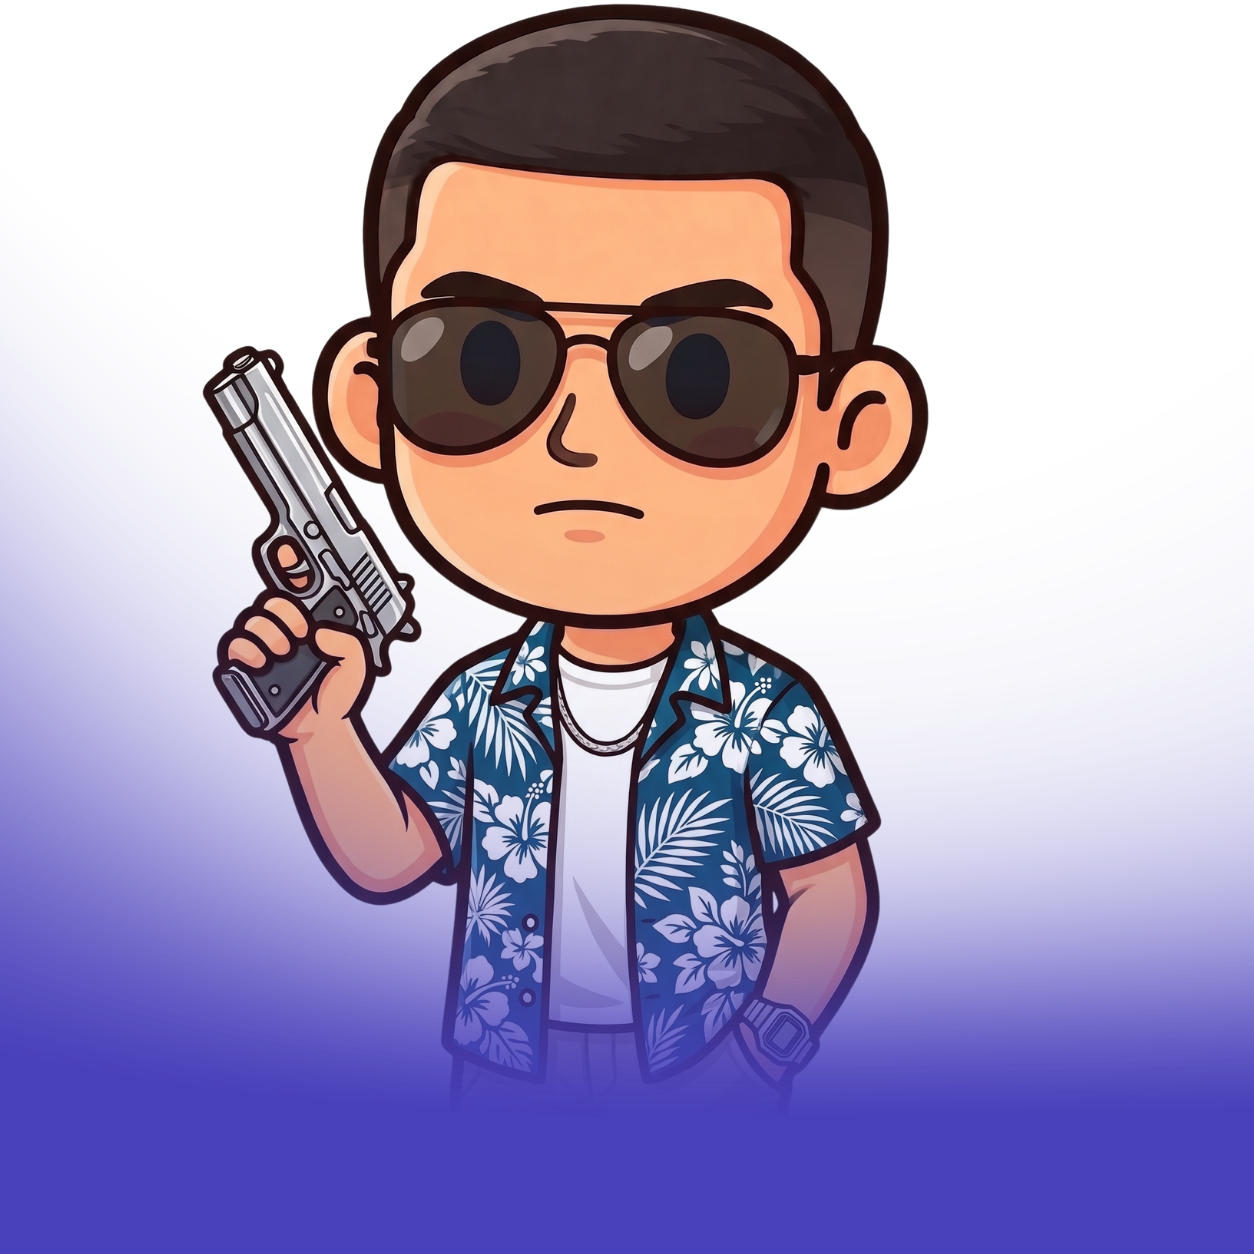
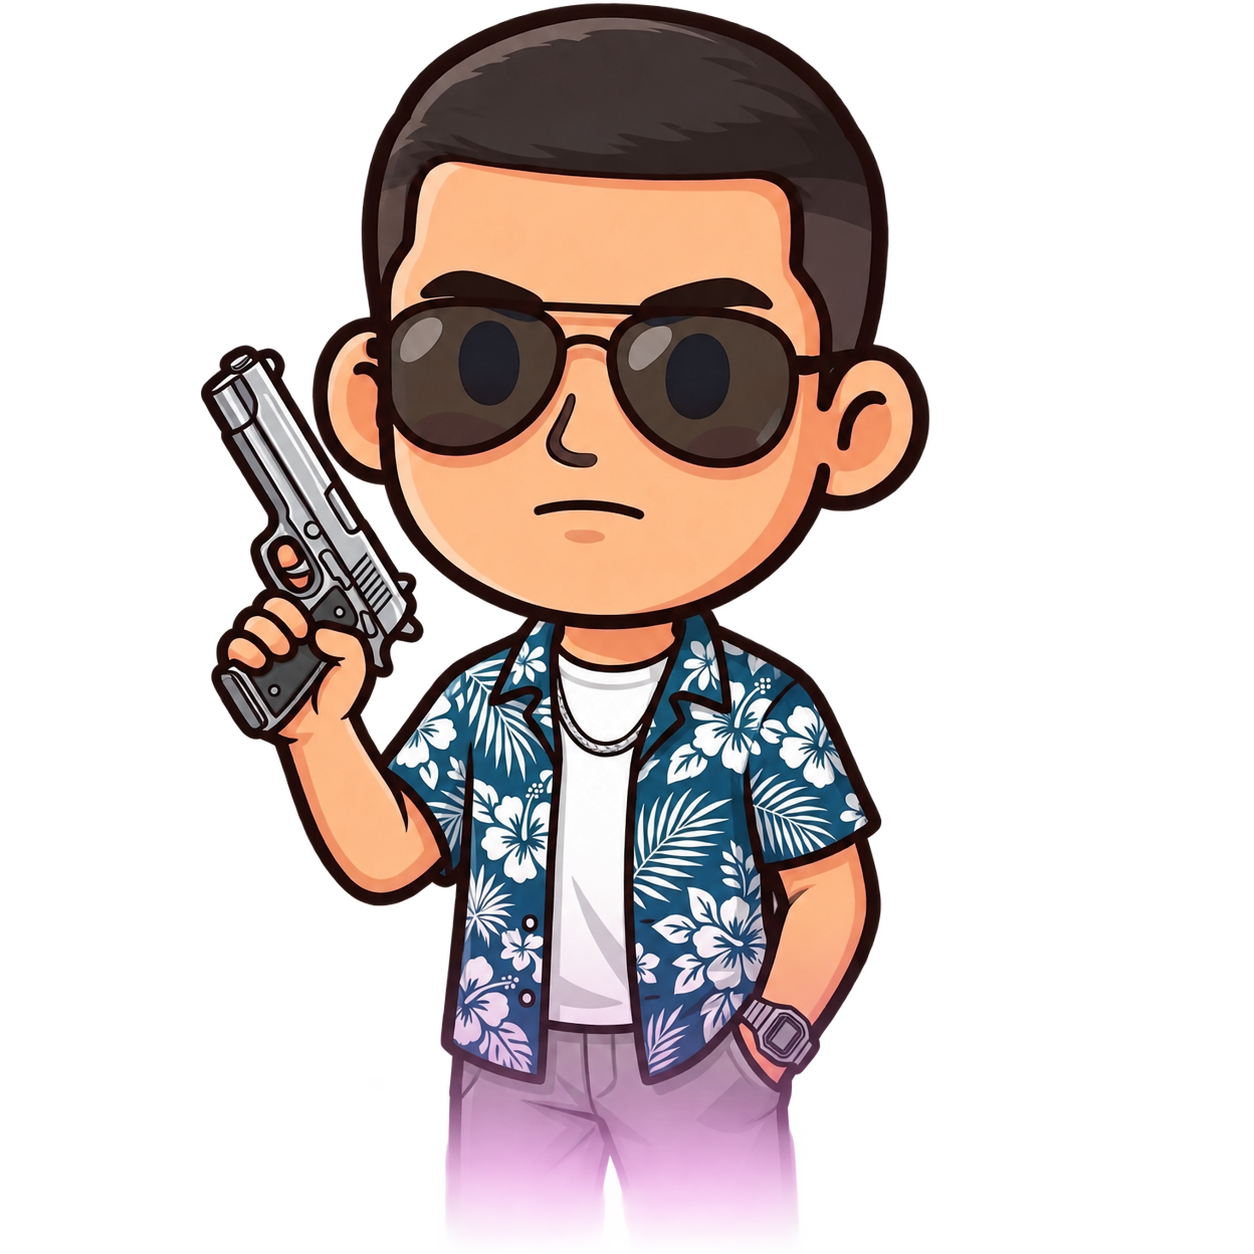
update script holidays

diff --git a/src/js/holidays.js b/src/js/holidays.js
@@ -46,13 +46,13 @@ export function initHolidays() {
             ],
 
             cssVars: {
-                "--bg-main": "linear-gradient(135deg, rgba(48, 63, 190, 1) 0%, rgba(105, 66, 180, 1) 15%, rgba(200, 142, 198, 1) 25%, rgba(206, 76, 169, 1) 35%)",
+                "--bg-main": "linear-gradient(90deg,rgba(76, 75, 251, 1) 0%, rgba(250, 61, 185, 1) 70%, rgba(252, 164, 65, 1) 100%)",
                 "--bg-main1": "#3240c1", 
                 "--accent-color": "#d04ba7",
                 "--bg-dropdown": "#ab56b4",
                 "--border-light": "rgba(255, 255, 255, .2)"
             },
-            corBotao: "linear-gradient(90deg,rgba(50, 64, 193, 1) 0%, rgba(104, 66, 180, 1) 50%);",
+            corBotao: "linear-gradient(90deg,rgba(50, 64, 193, 1) 0%, rgba(104, 66, 180, 1) 50%)",
             fontFamily: "'Pricedown', 'Montserrat', sans-serif" 
         },
 
@@ -315,11 +315,8 @@ export function initHolidays() {
         
         const style = document.createElement("style");
         
-        // A MÁGICA: background-attachment: fixed faz o gradiente se esticar
-        // baseado no tamanho da janela do usuário, e não no tamanho da seção.
-        // Isso devolve aquele visual suave de "uma grande cor de fundo", 
-        // mas as seções continuam sólidas com suas bordas e sombras!
         style.innerHTML = `
+            /* 1. CORRIGIDO: Volta a usar a variável original do GTA 6, com fundo fixo */
             .hero-section, 
             .about-section, 
             .services-section, 
@@ -327,16 +324,28 @@ export function initHolidays() {
             .formations-section,
             .contact-section,
             .cosmus-section {
-                background: linear-gradient(130deg,rgba(73, 64, 187, 1) 60%, rgba(140, 94, 186, 1) 85%) !important;
+                background: var(--bg-main) !important;
                 background-attachment: fixed !important; 
             }
             
-            /* Destaque para os cards não "sumirem" no fundo colorido */
+            /* 2. Destaque de Fundo para os cards não "sumirem" (Aplica nas Formações também!) */
             .project-card,
             .formation-card,
             .service-item,
             .contact-form-wrapper {
-                
+                background: rgba(0, 0, 0, 0.45) !important; 
+                backdrop-filter: blur(15px);
+                border: 1px solid rgba(255, 255, 255, 0.1) !important;
+                color: #ffffff; /* Garante que os textos das Formações fiquem visíveis */
+            }
+
+            /* 3. Textos da seção Serviços brancos para melhor leitura */
+            .services-section .service-name, 
+            .services-section .service-desc {
+                color: #ffffff !important;
+            }
+            .services-section .service-number-mask {
+                color: rgba(255, 255, 255, 0.3) !important; 
             }
 
             /* Footer com a cor secundária do tema */
@@ -419,15 +428,16 @@ export function initHolidays() {
 
     // 3.5. Decorações (Árvores) - COM SOLUÇÃO DO MOUSE E VENTO
     if (eventoAtivo.decoracoesHero) {
-        // Voltei para a hero-section para as árvores ficarem nas extremidades da tela!
         const heroSection = document.querySelector(".hero-section"); 
         if (heroSection) {
+            
+            // ANTI-DUPLICAÇÃO: Remove qualquer árvore que já exista antes de injetar novas
+            document.querySelectorAll(".hero-tree").forEach(t => t.remove());
+
             eventoAtivo.decoracoesHero.forEach(dec => {
-                // 1. Criamos a "caixa" (wrapper) que o Mouse vai mover
                 const wrapper = document.createElement("div");
                 wrapper.classList.add("hero-tree");
                 
-                // Copia os estilos, mas tira o 'transform' para não dar conflito com o GSAP
                 const transformInvertido = dec.estilos.transform;
                 const estilosSemTransform = { ...dec.estilos };
                 delete estilosSemTransform.transform;
@@ -435,7 +445,10 @@ export function initHolidays() {
                 Object.assign(wrapper.style, estilosSemTransform);
                 wrapper.style.pointerEvents = "none"; 
                 
-                // 2. Criamos a imagem que o CSS vai balançar (vento)
+                // MÁGICA DO FADE (GRADIENTE): Apaga a base da árvore de 75% até 100%
+                wrapper.style.webkitMaskImage = "linear-gradient(to bottom, rgba(0,0,0,1) 75%, rgba(0,0,0,0) 100%)";
+                wrapper.style.maskImage = "linear-gradient(to bottom, rgba(0,0,0,1) 30%, rgba(0,0,0,0) 100%)";
+                
                 const img = document.createElement("img");
                 img.src = dec.src;
                 img.style.width = "100%";
@@ -443,7 +456,6 @@ export function initHolidays() {
                 img.style.objectFit = "contain";
                 img.style.transformOrigin = "bottom center";
                 
-                // Aplica a inversão e o vento apenas na imagem
                 if (transformInvertido === "scaleX(-1)") {
                    img.style.animation = `treeSwayInverted ${Math.random() * 2 + 3}s ease-in-out infinite alternate`;
                 } else {
@@ -464,7 +476,6 @@ export function initHolidays() {
                     0% { transform: scaleX(-1) rotate(-2deg); }
                     100% { transform: scaleX(-1) rotate(2deg); }
                 }
-                /* Garante que o Caio fique por cima de tudo */
                 .hero-center { z-index: 10 !important; }
                 .hero-tree { z-index: 1 !important; }
             `;
